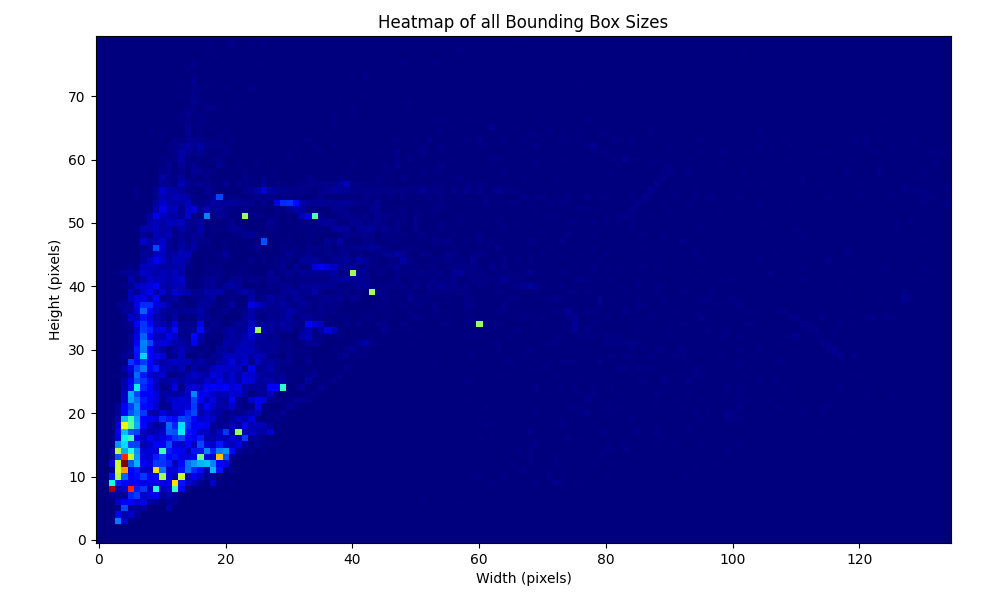
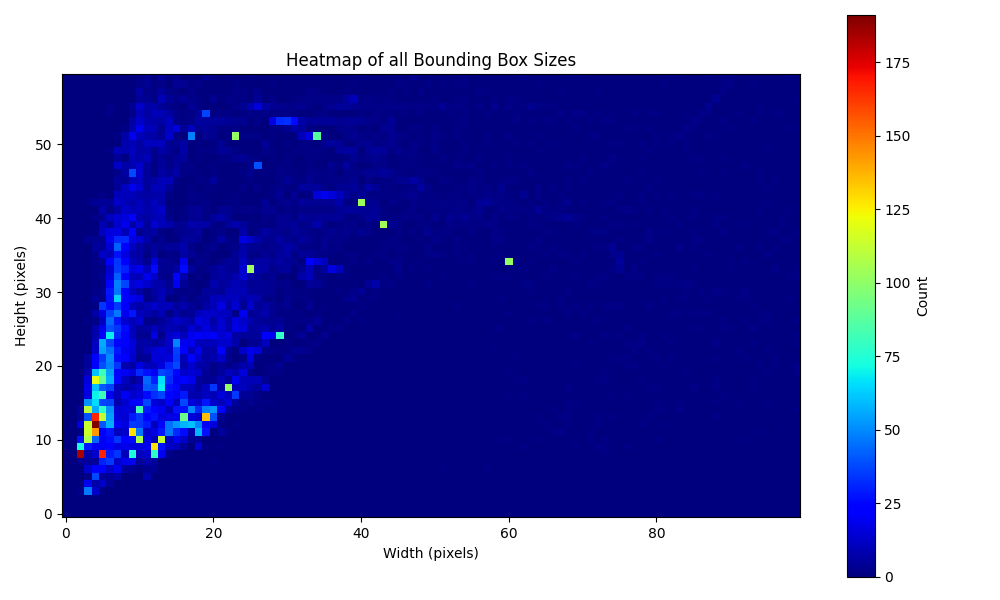
Adjusting size

diff --git a/Project/src/dataset_exploration.py b/Project/src/dataset_exploration.py
@@ -145,7 +145,7 @@ def plot_results(data: dict, output_dir: str = None):
     # All Sizes Heatmap
     widths: List[int] = []
     heights: List[int] = []
-    max_width, max_height = 135, 80
+    max_width, max_height = 100, 60
     for i in data.keys():
         widths.extend(data[i]["widths"])
         heights.extend(data[i]["heights"])
@@ -155,6 +155,7 @@ def plot_results(data: dict, output_dir: str = None):
             heatmap[int(height), int(width)] += 1
     plt.rcParams["axes.grid"] = False
     plt.imshow(heatmap, cmap="jet", origin="lower")
+    plt.colorbar(label="Count")
     plt.title("Heatmap of all Bounding Box Sizes")
     plt.xlabel("Width (pixels)")
     plt.ylabel("Height (pixels)")
